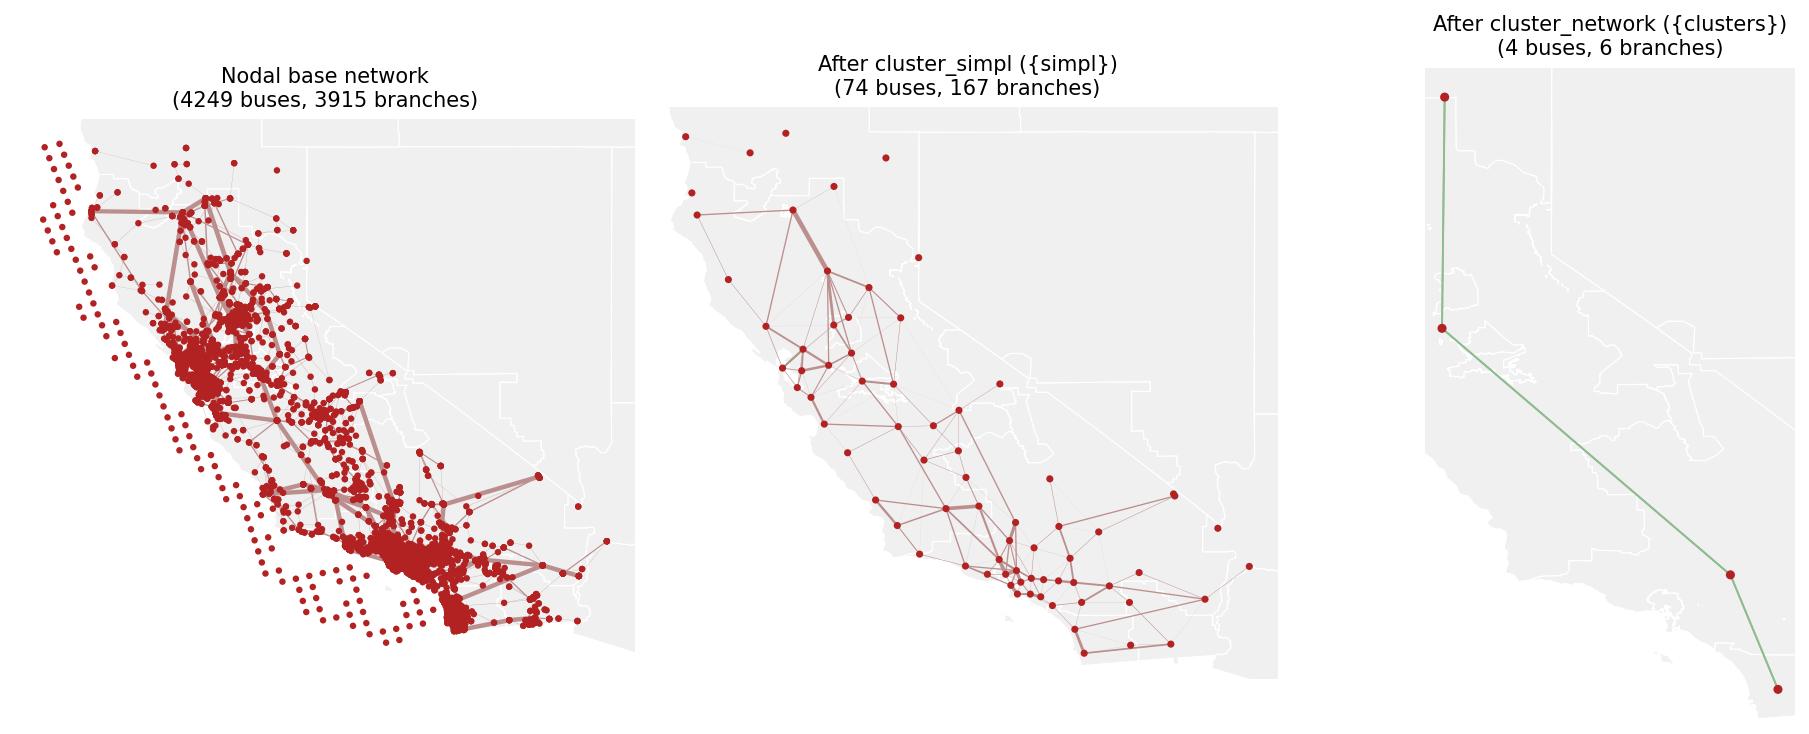
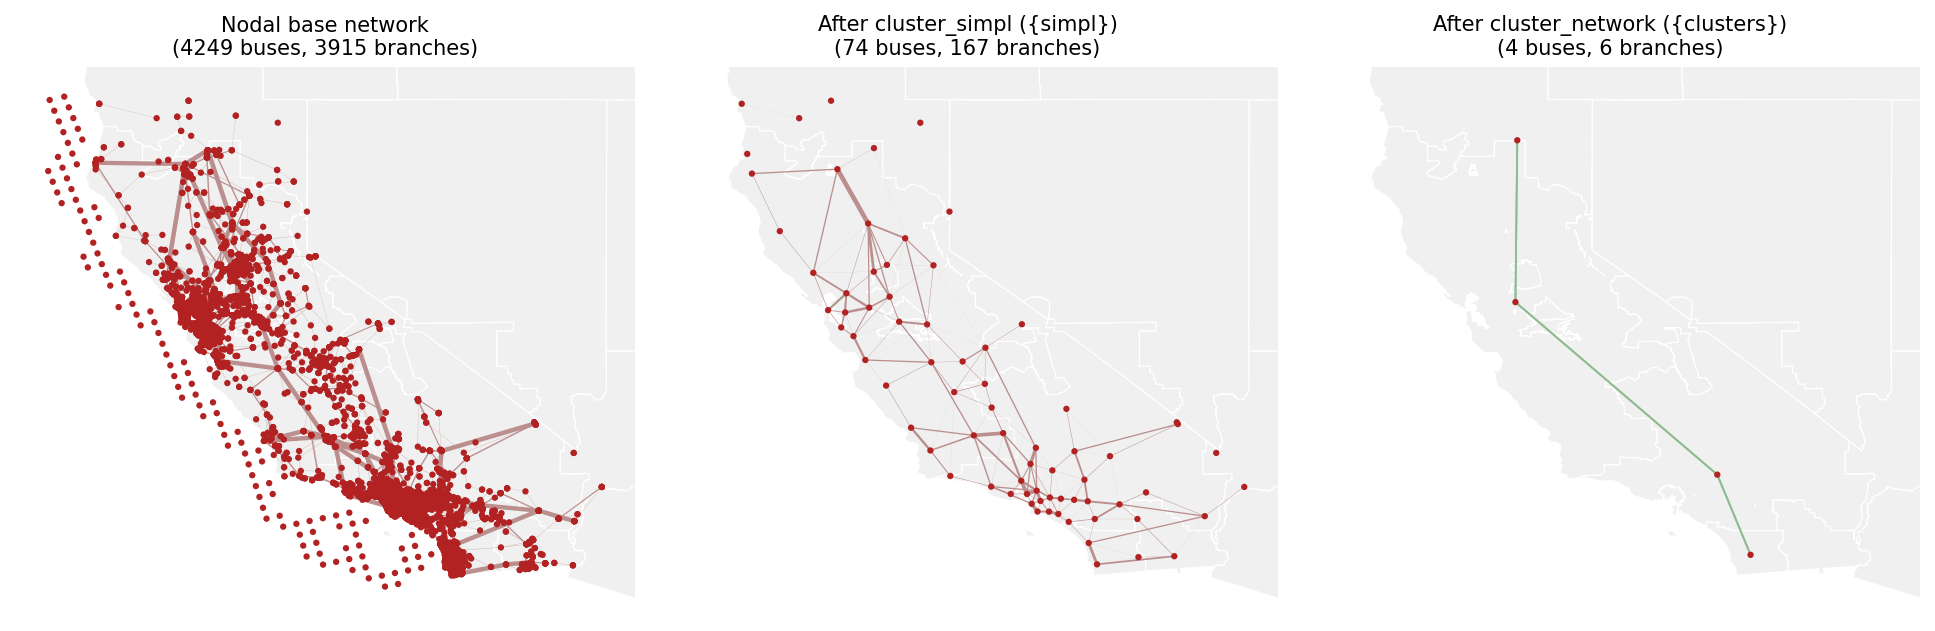
docs figures: frame every panel on the modelled footprint, not the clustered buses
A 4-bus network's bounding box clipped the north coast and the south-east
of California. Panels now share an extent padded from every bus in the
base/{simpl}/clustered networks (the interconnect shapes are wider than the
modelled slice, so they are not used). Suptitle given its own room.

diff --git a/workflow/scripts/plot_docs_figures.py b/workflow/scripts/plot_docs_figures.py
@@ -55,7 +55,13 @@ SUFFIX_DESCRIPTIONS = {
 GEN_COLORS = {"conventional": "#1f3a93", "renewable": "#2e9e5b"}
 
 
-def _plot_network_panel(ax, n, shapes, title):
+def _plot_network_panel(ax, n, shapes, title, extent=None):
+    """Draw one network on ``ax``.
+
+    ``extent`` is ``(xmin, xmax, ymin, ymax)``; when given, the panel is framed
+    on it rather than on the network's own bus bounding box, so a heavily
+    clustered network (a handful of buses) still shows the whole footprint.
+    """
     if shapes is not None:
         shapes.plot(ax=ax, facecolor="#f0f0f0", edgecolor="white", linewidth=0.6)
     n.plot(
@@ -68,8 +74,24 @@ def _plot_network_panel(ax, n, shapes, title):
     n_branches = len(n.lines) + len(n.links)
     if title is not None:
         ax.set_title(f"{title}\n({len(n.buses)} buses, {n_branches} branches)", fontsize=10)
+    if extent is not None:
+        ax.set_xlim(extent[0], extent[1])
+        ax.set_ylim(extent[2], extent[3])
     ax.set_aspect("equal")
     ax.axis("off")
+
+
+def _footprint_extent(*networks, pad=0.06):
+    """Padded bounding box of every bus in ``networks`` — the modelled footprint.
+
+    The shapes file is not used for this: it covers the whole interconnect, while
+    the model may be a slice of it (the tutorial is California only).
+    """
+    xs = pd.concat([n.buses.x for n in networks])
+    ys = pd.concat([n.buses.y for n in networks])
+    xmin, xmax, ymin, ymax = xs.min(), xs.max(), ys.min(), ys.max()
+    dx, dy = (xmax - xmin) * pad, (ymax - ymin) * pad
+    return (xmin - dx, xmax + dx, ymin - dy, ymax + dy)
 
 
 def plot_network_aggregation(base_path, simpl_path, clusters_path, shapes_path, out_path):
@@ -80,13 +102,15 @@ def plot_network_aggregation(base_path, simpl_path, clusters_path, shapes_path, 
 
         shapes = gpd.read_file(shapes_path)
 
+    networks = [pypsa.Network(path) for path in (base_path, simpl_path, clusters_path)]
+    extent = _footprint_extent(*networks)
     fig, axes = plt.subplots(1, 3, figsize=(13, 5))
-    for ax, path, title in zip(
+    for ax, n, title in zip(
         axes,
-        [base_path, simpl_path, clusters_path],
+        networks,
         ["Nodal base network", "After cluster_simpl ({simpl})", "After cluster_network ({clusters})"],
     ):
-        _plot_network_panel(ax, pypsa.Network(path), shapes, title)
+        _plot_network_panel(ax, n, shapes, title, extent=extent)
     fig.tight_layout()
     fig.savefig(out_path, dpi=150, bbox_inches="tight", facecolor="white")
     plt.close(fig)
@@ -136,13 +160,15 @@ def plot_cluster_suffixes(simpl_path, suffix_paths, shapes_path, out_path, conve
     span = max(float(buses.x.max() - buses.x.min()), float(buses.y.max() - buses.y.min()), 1e-6)
     jitter = 0.015 * span
 
-    simpl_buses = pypsa.Network(simpl_path).buses
+    simpl_network = pypsa.Network(simpl_path)
+    simpl_buses = simpl_network.buses
     n_simpl_buses = len(simpl_buses)
+    extent = _footprint_extent(simpl_network, *[n for _, _, n in ordered])
 
     rng = np.random.default_rng(0)
-    fig, axes = plt.subplots(1, len(ordered), figsize=(4.3 * len(ordered), 5))
+    fig, axes = plt.subplots(1, len(ordered), figsize=(4.3 * len(ordered), 5.6))
     for ax, (suffix, wildcard, n) in zip(np.atleast_1d(axes), ordered):
-        _plot_network_panel(ax, n, shapes, None)
+        _plot_network_panel(ax, n, shapes, None, extent=extent)
         gens = n.generators
         if len(gens):
             # non-aggregated generators keep land_region = their {simpl} bus: draw them there
@@ -195,7 +221,7 @@ def plot_cluster_suffixes(simpl_path, suffix_paths, shapes_path, out_path, conve
         title="marker area ∝ p_nom (capped); non-aggregated generators drawn at their {simpl} zone, aggregated ones at the cluster bus",
         title_fontsize=8,
     )
-    fig.tight_layout(rect=(0, 0.09, 1, 0.97))
+    fig.tight_layout(rect=(0, 0.09, 1, 0.92))
     fig.savefig(out_path, dpi=150, bbox_inches="tight", facecolor="white")
     plt.close(fig)
     logger.info("wrote %s", out_path)
